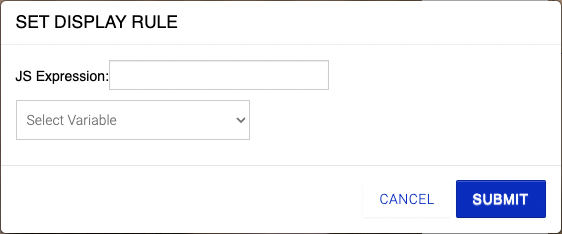
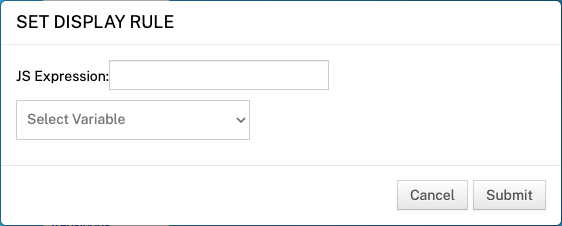
display rules doc

diff --git a/_site/annotations/adding-display-rule.html b/_site/annotations/adding-display-rule.html
@@ -864,7 +864,7 @@ function doGTranslate(lang_pair) {if(lang_pair.value)lang_pair=lang_pair.value;i
       <li>Display an annotation when the viewer gets a quiz question right or wrong</li>
       <li>Display an annotation based on a parameter passed in from an external API </li>
     </ul>
-    <p>Display rules require that you are comfortable working with HTML, JavaScript and CSS. Codeacademy offers free <a href="https://www.codecademy.com/en/tracks/web" rel="nofollow noopener noreferrer" target="_blank">HTML/CSS</a> and <a href="https://www.codecademy.com/en/tracks/javascript" rel="nofollow noopener noreferrer" target="_blank">JavaScript</a> courses that may be helpful to beginners. </p>
+    <p>Display rules require that you are comfortable working with HTML, JavaScript and CSS. Codeacademy offers free <a href="https://www.codecademy.com/en/tracks/web" rel="nofollow noopener noreferrer" target="_blank">HTML/CSS</a> and <a href="https://www.codecademy.com/en/tracks/javascript" rel="nofollow noopener noreferrer" target="_blank">JavaScript</a> courses that may be helpful to beginners.</p>
   </section>
   <section class="bcls-section">
     <h2 id="add-rule">Adding a display rule</h2>
@@ -876,11 +876,11 @@ function doGTranslate(lang_pair) {if(lang_pair.value)lang_pair=lang_pair.value;i
       <li>In the list of annotations, locate the annotation and click the edit icon (<img src="/assets/images/s-brightcove-interactivity-img/platform/custom-annotations/display-rules/icon-edit.png">).</li>
       <li>In the <strong>Edit</strong> menu, click <strong>More...</strong></li>
       <li>Click <strong>Display Rule</strong>.
-        <figure class="bcls-figure"> <img src="/assets/images/s-brightcove-interactivity-img/platform/custom-annotations/display-rules/new-display-rule.png"> </figure>
+        <figure class="bcls-figure"> <img src="/assets/images/s-brightcove-interactivity-img/annotations/display-rules/new-display-rule.png"> </figure>
       </li>
       <li>Enter the display rule. The expression entered in this dialog will be evaluated prior to rendering the annotation.<br>
       </li>
-      <li>Click <span class="button-blue">SUBMIT</span>.</li>
+      <li>Click <span class="button-blue"><strong>Submit</strong></span>.</li>
       <li>Click <strong>Done</strong>.</li>
     </ol>
   </section>
@@ -888,13 +888,13 @@ function doGTranslate(lang_pair) {if(lang_pair.value)lang_pair=lang_pair.value;i
     <h2 id="syntax">Display rule syntax</h2>
     <h3>Testing for a set variable</h3>
     <p>Rule: <code>[variable name]</code> eg. <code>my_var</code></p>
-    <p>This is the same as writing <code>my_var=true</code>. This will be true if the resolved variable is defined and it’s value is not false</p>
+    <p>This is the same as writing <code>my_var=true</code>. This will be true if the resolved variable is defined and it’s value is not false.</p>
     <h3>Testing equality</h3>
     <p>Rule: <code>[variable name]==&quot;value&quot;</code> eg. <code>my_var==&quot;Kyle&quot;</code></p>
-    <p>This will be true only if the resolved variable is exactly equal to the string value between the single quotes</p>
+    <p>This will be true only if the resolved variable is exactly equal to the string value between the single quotes.</p>
     <h3>Testing for correct quiz answers</h3>
     <p>Rule: <code>[quiz variable name]_correct</code> eg. <code>quiz_123_1_correct</code></p>
-    <p>This will be true only if the resolved variable is equal to the correct answer of the quiz question</p>
+    <p>This will be true only if the resolved variable is equal to the correct answer of the quiz question.</p>
     <h3>Testing for incorrect quiz answers</h3>
     <p>Rule: <code>[quiz variable name] &amp;&amp; ![quiz variable name]_correct</code> eg. <code>quiz_123_1 &amp;&amp;<br>
       !quiz_123_1_correct</code></p>
@@ -912,12 +912,12 @@ function doGTranslate(lang_pair) {if(lang_pair.value)lang_pair=lang_pair.value;i
     <p>The image and text annotations are configured with the same start and end times.</p>
     <p>The apple and orange images are both image overlays. They both have display rules set so they only show if their respective JavaScript variable (<code>apple</code> or <code>orange</code>) is set to <code>true</code>. For example, here is the display rule for the orange.</p>
     <p>
-    <figure class="bcls-figure"> <img src="/assets/images/s-brightcove-interactivity-img/platform/custom-annotations/display-rules/orange-display-rule.png"></figure>
+    <figure class="bcls-figure"> <img src="/assets/images/s-brightcove-interactivity-img/annotations/display-rules/orange-display-rule.png"></figure>
     </p>
     <p>This will cause the orange image overlay to only display when the variable <code>orange = true</code>.</p>
     <p>The text overlay <strong>Click here to change the image to display an orange</strong> is configured with a display rule to display when <code>apple = true</code>. The <strong>Link</strong> setting is configured to switch the variables when clicked.</p>
     <p>
-    <figure class="bcls-figure"> <img src="/assets/images/s-brightcove-interactivity-img/platform/custom-annotations/display-rules/orange-text.png"></figure>
+    <figure class="bcls-figure"> <img src="/assets/images/s-brightcove-interactivity-img/annotations/display-rules/orange-text.png"></figure>
     </p>
     <p>So clicking the text will set <code>orange</code> to <code>true</code> which will make the alternate text overlay and orange image both appear.</p>
   </section>
